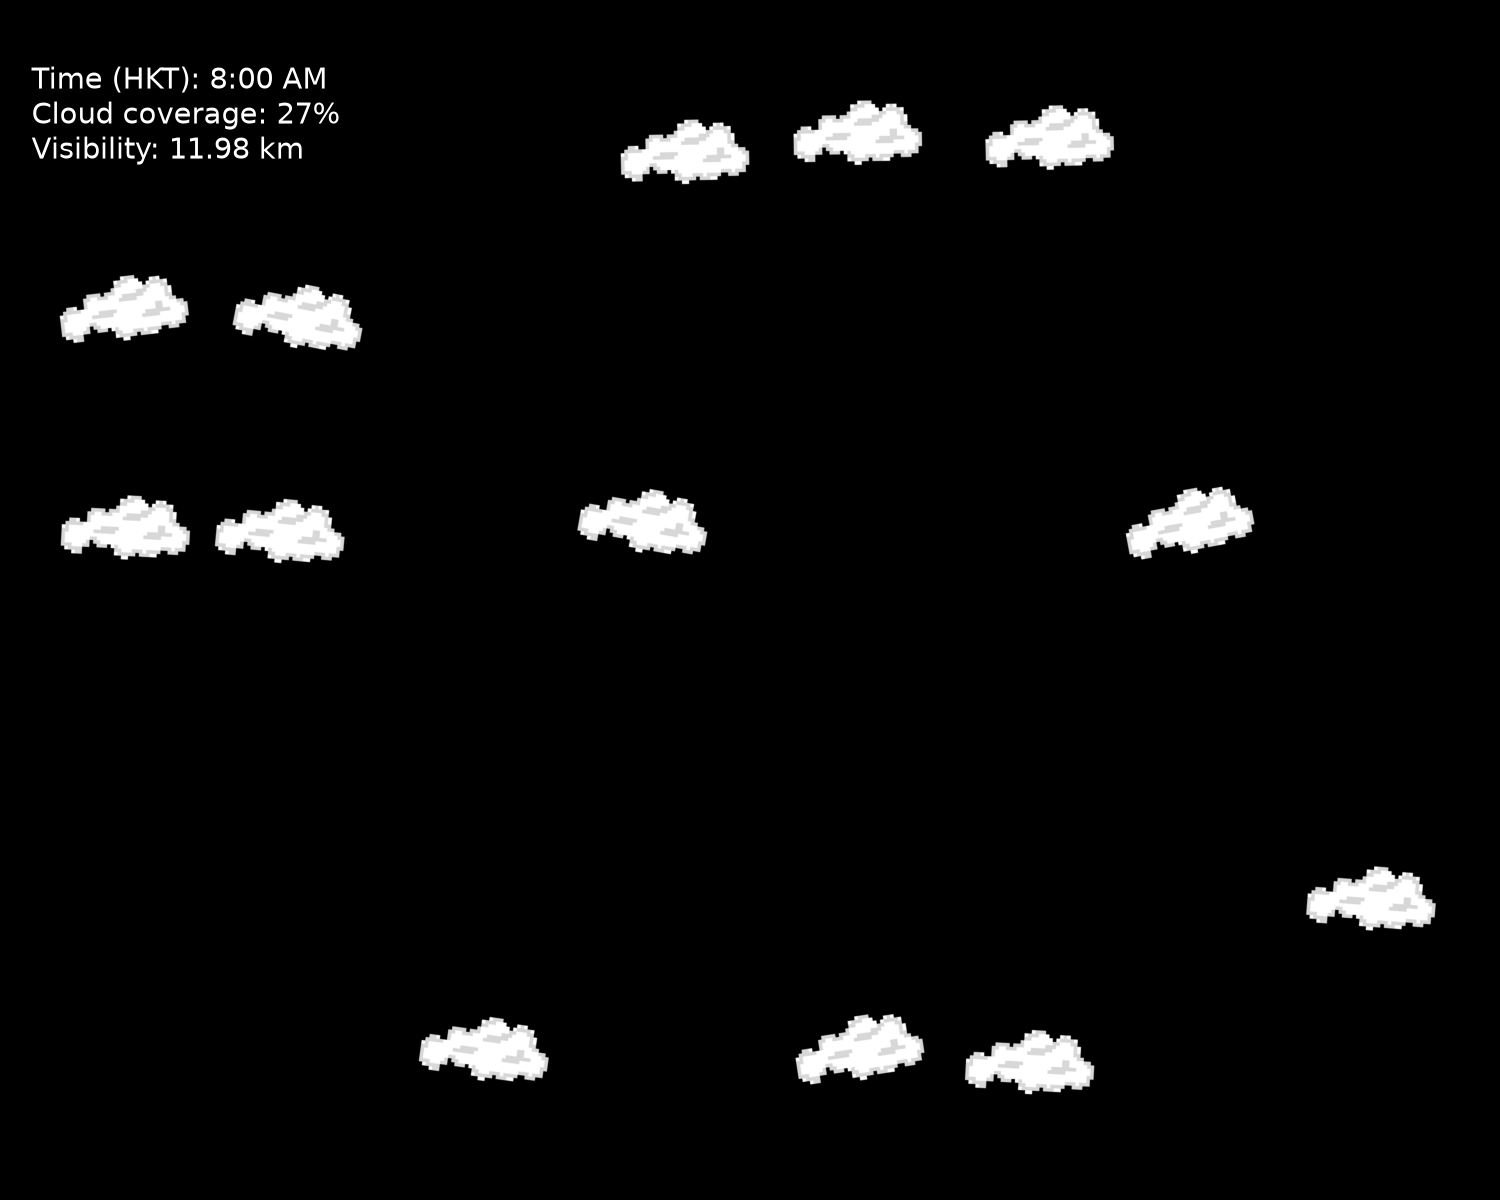
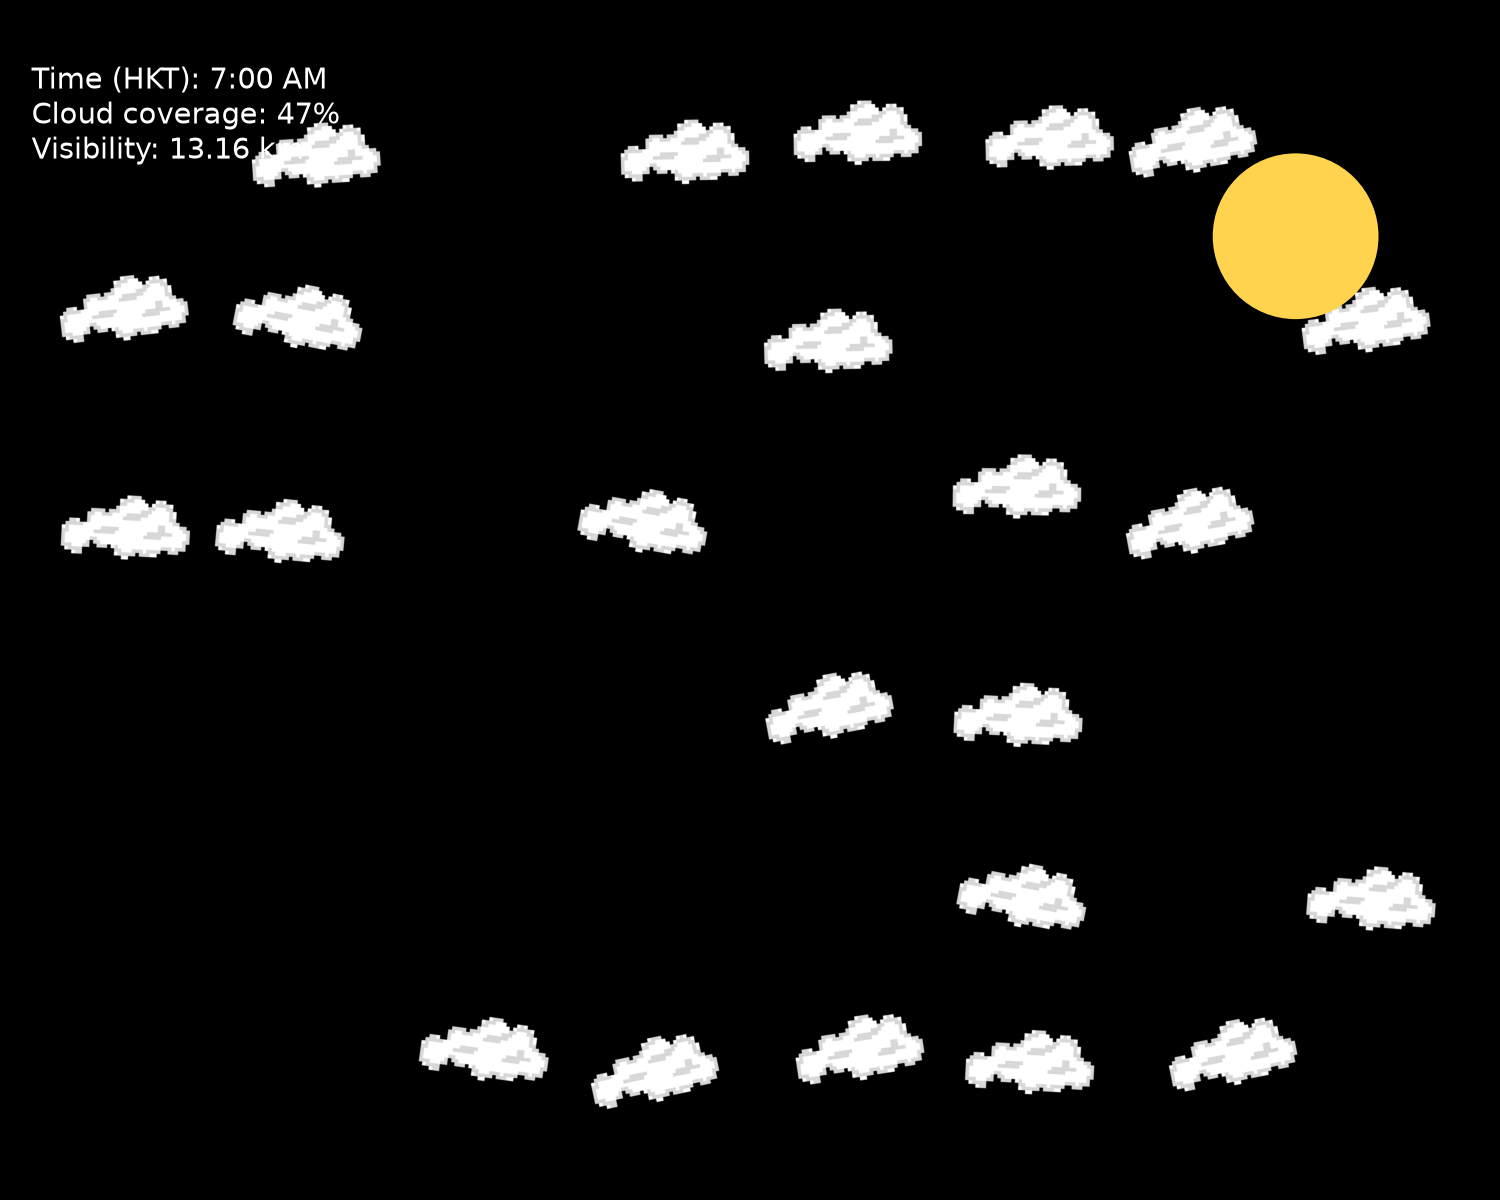
Draw sun or moon depending on time on the day

diff --git a/fetch.py b/fetch.py
@@ -21,7 +21,11 @@ from pathlib import Path
 # Fetch hourly cloud cover data from Open-Meteo for your coordinates
 # Hong Kong coords (22.3193, 114.1694)
 lat, lon = 22.3193, 114.1694
-URL = f"https://api.open-meteo.com/v1/forecast?latitude={lat}&longitude={lon}&hourly=cloud_cover,visibility&forecast_days=1"
+URL = (
+    f"https://api.open-meteo.com/v1/forecast?latitude={lat}&longitude={lon}"
+    "&hourly=cloud_cover,visibility&daily=sunrise,sunset"
+    "&forecast_days=1&timezone=Asia%2FHong_Kong"
+)
 
 FILE = "hk-hourly-coud-cover.csv"                         
 MAX_CLEAR_VISIBILITY_METERS = 10_000
@@ -41,6 +45,8 @@ def fetch(url, path):
     cloud_coverage = response["hourly"]["cloud_cover"][:24]
     hours = response["hourly"]["time"][:24]
     visibility = response["hourly"]["visibility"][:24]
+    sunrise = response["daily"]["sunrise"][0]
+    sunset = response["daily"]["sunset"][0]
     visibility_score = [
         min(visibility_meters / MAX_CLEAR_VISIBILITY_METERS * 100, 100)
         for visibility_meters in visibility
@@ -48,8 +54,14 @@ def fetch(url, path):
 
     with path.open("w", encoding="utf-8", newline="") as handle:
         writer = csv.writer(handle)
-        writer.writerow(["time", "cloud_coverage", "visibility", "visibility_score"])
-        writer.writerows(zip(hours, cloud_coverage, visibility, visibility_score))
+        writer.writerow([
+            "time", "cloud_coverage", "visibility", "visibility_score",
+            "sunrise", "sunset",
+        ])
+        writer.writerows(
+            zip(hours, cloud_coverage, visibility, visibility_score,
+                [sunrise] * len(hours), [sunset] * len(hours))
+        )
 
     print(f"saved data/{path.name} ({path.stat().st_size // 1024} KB). Now: git add data")
     return path

diff --git a/plot.py b/plot.py
@@ -20,6 +20,7 @@ from pathlib import Path
 
 import matplotlib.pyplot as plt
 from matplotlib.image import imread
+from matplotlib.patches import Circle
 from matplotlib.transforms import Affine2D
 from fetch import FILE
 
@@ -43,16 +44,28 @@ def format_visibility(meters):
 
 def main():
     table = rows(DATA)
-    first = table[0]
+    hkt = timezone(timedelta(hours=8))
+    sunrise = datetime.fromisoformat(table[0]["sunrise"]).replace(tzinfo=hkt)
+    sunset = datetime.fromisoformat(table[0]["sunset"]).replace(tzinfo=hkt)
+    first = next(
+        row for row in table
+        if sunrise <= datetime.fromisoformat(row["time"]).replace(tzinfo=hkt) < sunset
+    )
     cloud_coverage = float(first["cloud_coverage"])
     coverage_fraction = max(0, min(cloud_coverage, 100)) / 100
-    utc_time = datetime.fromisoformat(first["time"]).replace(tzinfo=timezone.utc)
-    hkt_time = utc_time.astimezone(timezone(timedelta(hours=8)))
+    hkt_time = datetime.fromisoformat(first["time"]).replace(tzinfo=hkt)
     readable_time = hkt_time.strftime("%I:%M %p").lstrip("0")
     visibility = format_visibility(float(first["visibility"]))
+    sunrise = datetime.fromisoformat(first["sunrise"]).replace(tzinfo=hkt)
+    sunset = datetime.fromisoformat(first["sunset"]).replace(tzinfo=hkt)
 
     fig, ax = plt.subplots(figsize=(10, 8), facecolor="black")
     ax.set_facecolor("black")
+    if sunrise <= hkt_time < sunset:
+        ax.add_patch(Circle((7, 5), 0.45, color="#ffd34e"))
+    else:
+        ax.add_patch(Circle((7, 5), 0.45, color="#d9d9d9"))
+        ax.add_patch(Circle((7.18, 5.15), 0.45, color="black"))
     cloud = imread(SPRITE)
     variation = random.Random(42)
     positions = [(x, y) for x in range(8) for y in range(6)]
